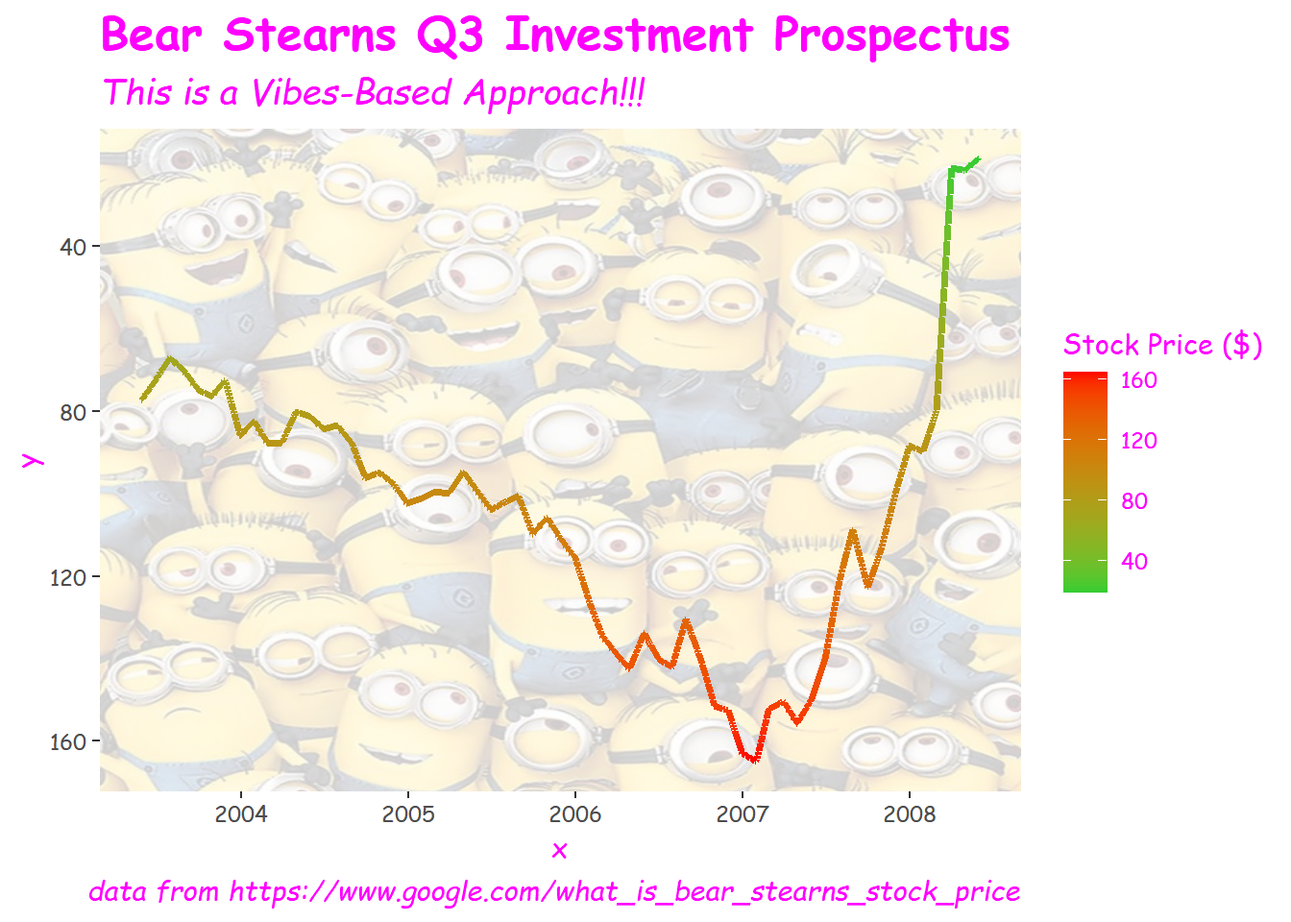
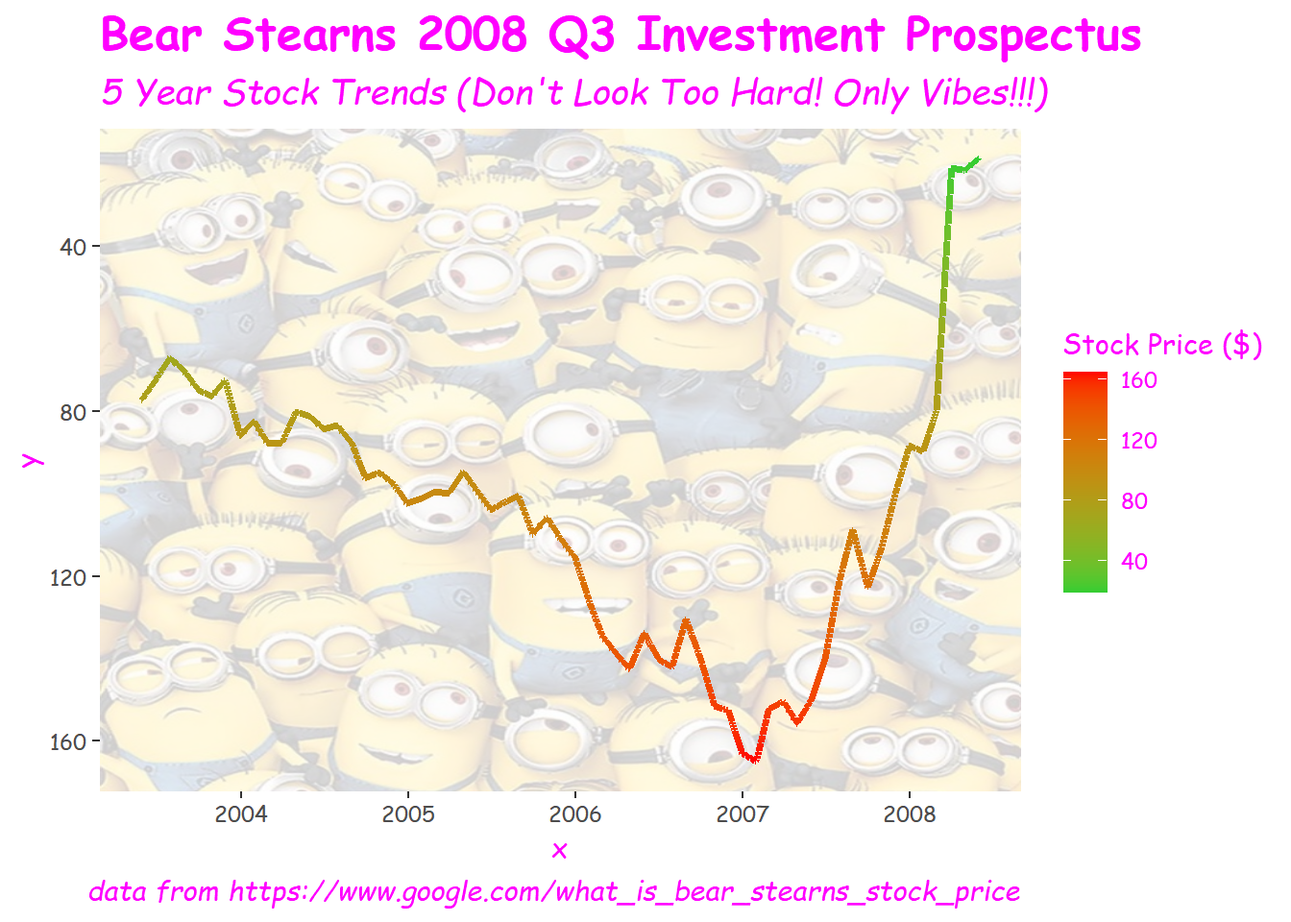
more good plot bad plot uploads

Changed region(s): [[0.0625, 0.0, 0.9062, 0.125]]

diff --git a/GoodPlotBadPlot/Scripts/GoodPlot_BadPlot_Quarto_Doc.html b/GoodPlotBadPlot/Scripts/GoodPlot_BadPlot_Quarto_Doc.html
@@ -172,62 +172,67 @@ pre > code.sourceCode > span > a:first-child::before { text-decoration: underlin
 </figure>
 </div>
 </div>
+<details class="code-fold">
+<summary>Show code</summary>
+<div class="code-copy-outer-scaffold"><div class="sourceCode cell-code" id="cb3"><pre class="sourceCode r code-with-copy"><code class="sourceCode r"><span id="cb3-1"><a href="#cb3-1" aria-hidden="true" tabindex="-1"></a><span class="co">#use here function to save to output folder</span></span>
+<span id="cb3-2"><a href="#cb3-2" aria-hidden="true" tabindex="-1"></a><span class="fu">ggsave</span>(<span class="fu">here</span>(<span class="st">"GoodPlotBadPlot"</span>,<span class="st">"Outputs"</span>,<span class="st">"subprime_share_plot.png"</span>))         </span></code></pre></div><button title="Copy to Clipboard" class="code-copy-button"><i class="bi"></i></button></div>
+</details>
 </div>
 <p>As you can see in the chart above, subprime loans, which made up less than a fifth of all new mortgages in 2001, comprised close to half of new mortgages in 2005. The spike in 2003 is due to the Federal Reserve dropping interest rates to near historic levels, which created a rush of new home buyers and catalyzed the subprime market by making it easier than ever to obtain cheap credit. By 2007, subprime loans had begun to default enough to contract the overall U.S. housing market, despite prime mortgages continuing to be generated at a similar amount.</p>
 <div class="cell" data-label="Market Performance Versus Foreclosures">
 <details class="code-fold">
 <summary>Show code</summary>
-<div class="code-copy-outer-scaffold"><div class="sourceCode cell-code" id="cb3"><pre class="sourceCode r code-with-copy"><code class="sourceCode r"><span id="cb3-1"><a href="#cb3-1" aria-hidden="true" tabindex="-1"></a><span class="co">#pull in datasets</span></span>
-<span id="cb3-2"><a href="#cb3-2" aria-hidden="true" tabindex="-1"></a>SP500_2008 <span class="ot">&lt;-</span> <span class="fu">read.csv</span>(<span class="fu">here</span>(<span class="st">"GoodPlotBadPlot"</span>,<span class="st">"Data"</span>,<span class="st">"SP500_Data_2007_2009_Long.csv"</span>))<span class="sc">|&gt;</span></span>
-<span id="cb3-3"><a href="#cb3-3" aria-hidden="true" tabindex="-1"></a>  <span class="fu">filter</span>(Year<span class="sc">==</span><span class="dv">2008</span>,)<span class="sc">|&gt;</span> <span class="co">#select only 2008</span></span>
-<span id="cb3-4"><a href="#cb3-4" aria-hidden="true" tabindex="-1"></a>  <span class="co">#order months sequentially and make values numeric</span></span>
-<span id="cb3-5"><a href="#cb3-5" aria-hidden="true" tabindex="-1"></a>  <span class="fu">mutate</span>(<span class="at">Month=</span><span class="fu">factor</span>(Month, <span class="at">levels=</span>month.name),</span>
-<span id="cb3-6"><a href="#cb3-6" aria-hidden="true" tabindex="-1"></a>                      <span class="at">Index.Value=</span><span class="fu">as.numeric</span>(Index.Value)) </span>
-<span id="cb3-7"><a href="#cb3-7" aria-hidden="true" tabindex="-1"></a><span class="fu">head</span>(SP500_2008) <span class="co">#S&amp;P500 Dataset</span></span>
-<span id="cb3-8"><a href="#cb3-8" aria-hidden="true" tabindex="-1"></a></span>
-<span id="cb3-9"><a href="#cb3-9" aria-hidden="true" tabindex="-1"></a>Foreclosures_2008 <span class="ot">&lt;-</span> <span class="fu">read.csv</span>(<span class="fu">here</span>(<span class="st">"GoodPlotBadPlot"</span>,<span class="st">"Data"</span>,<span class="st">"2008_Foreclosure_Data.csv"</span>))<span class="sc">|&gt;</span></span>
-<span id="cb3-10"><a href="#cb3-10" aria-hidden="true" tabindex="-1"></a>  <span class="fu">mutate</span>(<span class="at">Month =</span> <span class="fu">factor</span>(Month, <span class="at">levels =</span> month.name)) <span class="co">#order months sequentially</span></span>
-<span id="cb3-11"><a href="#cb3-11" aria-hidden="true" tabindex="-1"></a>         </span>
-<span id="cb3-12"><a href="#cb3-12" aria-hidden="true" tabindex="-1"></a><span class="fu">head</span>(Foreclosures_2008) <span class="co">#Foreclosures dataset</span></span>
-<span id="cb3-13"><a href="#cb3-13" aria-hidden="true" tabindex="-1"></a></span>
-<span id="cb3-14"><a href="#cb3-14" aria-hidden="true" tabindex="-1"></a><span class="co">#ggplot bar chart plus line chart, linked with patchwork</span></span>
-<span id="cb3-15"><a href="#cb3-15" aria-hidden="true" tabindex="-1"></a></span>
-<span id="cb3-16"><a href="#cb3-16" aria-hidden="true" tabindex="-1"></a><span class="co">#bar chart</span></span>
-<span id="cb3-17"><a href="#cb3-17" aria-hidden="true" tabindex="-1"></a>A1 <span class="ot">&lt;-</span> <span class="fu">ggplot</span>(Foreclosures_2008, </span>
-<span id="cb3-18"><a href="#cb3-18" aria-hidden="true" tabindex="-1"></a>       <span class="fu">aes</span>(<span class="at">x=</span>Month,</span>
-<span id="cb3-19"><a href="#cb3-19" aria-hidden="true" tabindex="-1"></a>           <span class="at">y=</span>Number,</span>
-<span id="cb3-20"><a href="#cb3-20" aria-hidden="true" tabindex="-1"></a>           <span class="at">fill=</span>Loan.Type))<span class="sc">+</span></span>
-<span id="cb3-21"><a href="#cb3-21" aria-hidden="true" tabindex="-1"></a>  <span class="fu">geom_col</span>(<span class="at">position=</span><span class="st">"stack"</span>,<span class="at">width=</span><span class="fl">0.7</span>,)<span class="sc">+</span> <span class="co">#stack again seems like best visual</span></span>
-<span id="cb3-22"><a href="#cb3-22" aria-hidden="true" tabindex="-1"></a>  <span class="fu">scale_fill_manual</span>(<span class="at">values=</span><span class="fu">c</span>(<span class="st">"Prime"</span><span class="ot">=</span><span class="st">"navy"</span>,</span>
-<span id="cb3-23"><a href="#cb3-23" aria-hidden="true" tabindex="-1"></a>                             <span class="st">"Subprime"</span><span class="ot">=</span><span class="st">"red"</span>))<span class="sc">+</span> <span class="co">#red still equals bad</span></span>
-<span id="cb3-24"><a href="#cb3-24" aria-hidden="true" tabindex="-1"></a>  <span class="fu">theme</span>(<span class="at">axis.title=</span><span class="fu">element_text</span>(<span class="at">size=</span><span class="dv">12</span>),</span>
-<span id="cb3-25"><a href="#cb3-25" aria-hidden="true" tabindex="-1"></a>        <span class="at">axis.title.x=</span><span class="fu">element_blank</span>(), <span class="co">#block this element from showing</span></span>
-<span id="cb3-26"><a href="#cb3-26" aria-hidden="true" tabindex="-1"></a>        <span class="at">axis.text.x =</span> <span class="fu">element_text</span>(<span class="at">angle =</span> <span class="dv">45</span>, <span class="at">hjust =</span> <span class="dv">1</span>))<span class="sc">+</span></span>
-<span id="cb3-27"><a href="#cb3-27" aria-hidden="true" tabindex="-1"></a>  <span class="fu">labs</span>(<span class="at">y=</span><span class="st">"Number of Foreclosures"</span>,</span>
-<span id="cb3-28"><a href="#cb3-28" aria-hidden="true" tabindex="-1"></a>       <span class="at">fill=</span><span class="st">"Loan Type"</span>)</span>
-<span id="cb3-29"><a href="#cb3-29" aria-hidden="true" tabindex="-1"></a></span>
-<span id="cb3-30"><a href="#cb3-30" aria-hidden="true" tabindex="-1"></a><span class="co">#line chart</span></span>
-<span id="cb3-31"><a href="#cb3-31" aria-hidden="true" tabindex="-1"></a>A2 <span class="ot">&lt;-</span> <span class="fu">ggplot</span>(SP500_2008,</span>
-<span id="cb3-32"><a href="#cb3-32" aria-hidden="true" tabindex="-1"></a>        <span class="fu">aes</span>(<span class="at">x=</span>Month,</span>
-<span id="cb3-33"><a href="#cb3-33" aria-hidden="true" tabindex="-1"></a>            <span class="at">y=</span>Index.Value,</span>
-<span id="cb3-34"><a href="#cb3-34" aria-hidden="true" tabindex="-1"></a>            <span class="at">group=</span><span class="dv">1</span>))<span class="sc">+</span></span>
-<span id="cb3-35"><a href="#cb3-35" aria-hidden="true" tabindex="-1"></a>  <span class="fu">geom_line</span>(<span class="at">color=</span><span class="st">"orange"</span>,<span class="at">linewidth=</span><span class="fl">1.2</span>)<span class="sc">+</span></span>
-<span id="cb3-36"><a href="#cb3-36" aria-hidden="true" tabindex="-1"></a>  <span class="co">#customize y-scale</span></span>
-<span id="cb3-37"><a href="#cb3-37" aria-hidden="true" tabindex="-1"></a>  <span class="fu">scale_y_continuous</span>(<span class="at">limits =</span> <span class="fu">c</span>(<span class="dv">750</span>,<span class="dv">1500</span>),<span class="at">breaks=</span>(<span class="fu">seq</span>(<span class="dv">750</span>,<span class="dv">1500</span>,<span class="at">by=</span><span class="dv">250</span>)))<span class="sc">+</span></span>
-<span id="cb3-38"><a href="#cb3-38" aria-hidden="true" tabindex="-1"></a>  <span class="fu">theme</span>(<span class="at">axis.text.x =</span> <span class="fu">element_text</span>(<span class="at">angle =</span> <span class="dv">45</span>, <span class="at">hjust =</span> <span class="dv">1</span>))<span class="sc">+</span></span>
-<span id="cb3-39"><a href="#cb3-39" aria-hidden="true" tabindex="-1"></a>  <span class="fu">labs</span>(<span class="at">y=</span><span class="st">"S&amp;P500 Index"</span>)<span class="sc">+</span></span>
-<span id="cb3-40"><a href="#cb3-40" aria-hidden="true" tabindex="-1"></a>  <span class="fu">theme</span>(<span class="at">axis.title=</span><span class="fu">element_text</span>(<span class="at">size=</span><span class="dv">12</span>))</span>
-<span id="cb3-41"><a href="#cb3-41" aria-hidden="true" tabindex="-1"></a>  </span>
-<span id="cb3-42"><a href="#cb3-42" aria-hidden="true" tabindex="-1"></a>Patchwork_Plot <span class="ot">&lt;-</span> A1 <span class="sc">/</span> A2 <span class="co">#stitch the plots together</span></span>
-<span id="cb3-43"><a href="#cb3-43" aria-hidden="true" tabindex="-1"></a></span>
-<span id="cb3-44"><a href="#cb3-44" aria-hidden="true" tabindex="-1"></a><span class="co">#adding labels</span></span>
-<span id="cb3-45"><a href="#cb3-45" aria-hidden="true" tabindex="-1"></a>Patchwork_Plot<span class="sc">+</span></span>
-<span id="cb3-46"><a href="#cb3-46" aria-hidden="true" tabindex="-1"></a>  <span class="fu">plot_annotation</span>(<span class="at">title=</span><span class="st">"The Subprime Bubble Onset Delay"</span>,</span>
-<span id="cb3-47"><a href="#cb3-47" aria-hidden="true" tabindex="-1"></a>                  <span class="at">subtitle=</span><span class="st">"Foreclosures Versus S&amp;P500 Index Performance, 2008"</span>,</span>
-<span id="cb3-48"><a href="#cb3-48" aria-hidden="true" tabindex="-1"></a>                  <span class="at">caption=</span><span class="st">"Data from CNBC and FHFA Foreclosure Prevention Report, 2008"</span>,</span>
-<span id="cb3-49"><a href="#cb3-49" aria-hidden="true" tabindex="-1"></a>                  <span class="at">theme=</span><span class="fu">theme</span>(<span class="at">plot.title =</span> <span class="fu">element_text</span>(<span class="at">size =</span> <span class="dv">16</span>,<span class="at">face =</span> <span class="st">"bold"</span>),</span>
-<span id="cb3-50"><a href="#cb3-50" aria-hidden="true" tabindex="-1"></a>            <span class="at">plot.subtitle =</span> <span class="fu">element_text</span>(<span class="at">size =</span> <span class="dv">12</span>),</span>
-<span id="cb3-51"><a href="#cb3-51" aria-hidden="true" tabindex="-1"></a>            <span class="at">plot.caption =</span> <span class="fu">element_text</span>(<span class="at">size =</span> <span class="dv">8</span>,<span class="at">face =</span> <span class="st">"italic"</span>)))</span></code></pre></div><button title="Copy to Clipboard" class="code-copy-button"><i class="bi"></i></button></div>
+<div class="code-copy-outer-scaffold"><div class="sourceCode cell-code" id="cb4"><pre class="sourceCode r code-with-copy"><code class="sourceCode r"><span id="cb4-1"><a href="#cb4-1" aria-hidden="true" tabindex="-1"></a><span class="co">#pull in datasets</span></span>
+<span id="cb4-2"><a href="#cb4-2" aria-hidden="true" tabindex="-1"></a>SP500_2008 <span class="ot">&lt;-</span> <span class="fu">read.csv</span>(<span class="fu">here</span>(<span class="st">"GoodPlotBadPlot"</span>,<span class="st">"Data"</span>,<span class="st">"SP500_Data_2007_2009_Long.csv"</span>))<span class="sc">|&gt;</span></span>
+<span id="cb4-3"><a href="#cb4-3" aria-hidden="true" tabindex="-1"></a>  <span class="fu">filter</span>(Year<span class="sc">==</span><span class="dv">2008</span>,)<span class="sc">|&gt;</span> <span class="co">#select only 2008</span></span>
+<span id="cb4-4"><a href="#cb4-4" aria-hidden="true" tabindex="-1"></a>  <span class="co">#order months sequentially and make values numeric</span></span>
+<span id="cb4-5"><a href="#cb4-5" aria-hidden="true" tabindex="-1"></a>  <span class="fu">mutate</span>(<span class="at">Month=</span><span class="fu">factor</span>(Month, <span class="at">levels=</span>month.name),</span>
+<span id="cb4-6"><a href="#cb4-6" aria-hidden="true" tabindex="-1"></a>                      <span class="at">Index.Value=</span><span class="fu">as.numeric</span>(Index.Value)) </span>
+<span id="cb4-7"><a href="#cb4-7" aria-hidden="true" tabindex="-1"></a><span class="fu">head</span>(SP500_2008) <span class="co">#S&amp;P500 Dataset</span></span>
+<span id="cb4-8"><a href="#cb4-8" aria-hidden="true" tabindex="-1"></a></span>
+<span id="cb4-9"><a href="#cb4-9" aria-hidden="true" tabindex="-1"></a>Foreclosures_2008 <span class="ot">&lt;-</span> <span class="fu">read.csv</span>(<span class="fu">here</span>(<span class="st">"GoodPlotBadPlot"</span>,<span class="st">"Data"</span>,<span class="st">"2008_Foreclosure_Data.csv"</span>))<span class="sc">|&gt;</span></span>
+<span id="cb4-10"><a href="#cb4-10" aria-hidden="true" tabindex="-1"></a>  <span class="fu">mutate</span>(<span class="at">Month =</span> <span class="fu">factor</span>(Month, <span class="at">levels =</span> month.name)) <span class="co">#order months sequentially</span></span>
+<span id="cb4-11"><a href="#cb4-11" aria-hidden="true" tabindex="-1"></a>         </span>
+<span id="cb4-12"><a href="#cb4-12" aria-hidden="true" tabindex="-1"></a><span class="fu">head</span>(Foreclosures_2008) <span class="co">#Foreclosures dataset</span></span>
+<span id="cb4-13"><a href="#cb4-13" aria-hidden="true" tabindex="-1"></a></span>
+<span id="cb4-14"><a href="#cb4-14" aria-hidden="true" tabindex="-1"></a><span class="co">#ggplot bar chart plus line chart, linked with patchwork</span></span>
+<span id="cb4-15"><a href="#cb4-15" aria-hidden="true" tabindex="-1"></a></span>
+<span id="cb4-16"><a href="#cb4-16" aria-hidden="true" tabindex="-1"></a><span class="co">#bar chart</span></span>
+<span id="cb4-17"><a href="#cb4-17" aria-hidden="true" tabindex="-1"></a>A1 <span class="ot">&lt;-</span> <span class="fu">ggplot</span>(Foreclosures_2008, </span>
+<span id="cb4-18"><a href="#cb4-18" aria-hidden="true" tabindex="-1"></a>       <span class="fu">aes</span>(<span class="at">x=</span>Month,</span>
+<span id="cb4-19"><a href="#cb4-19" aria-hidden="true" tabindex="-1"></a>           <span class="at">y=</span>Number,</span>
+<span id="cb4-20"><a href="#cb4-20" aria-hidden="true" tabindex="-1"></a>           <span class="at">fill=</span>Loan.Type))<span class="sc">+</span></span>
+<span id="cb4-21"><a href="#cb4-21" aria-hidden="true" tabindex="-1"></a>  <span class="fu">geom_col</span>(<span class="at">position=</span><span class="st">"stack"</span>,<span class="at">width=</span><span class="fl">0.7</span>,)<span class="sc">+</span> <span class="co">#stack again seems like best visual</span></span>
+<span id="cb4-22"><a href="#cb4-22" aria-hidden="true" tabindex="-1"></a>  <span class="fu">scale_fill_manual</span>(<span class="at">values=</span><span class="fu">c</span>(<span class="st">"Prime"</span><span class="ot">=</span><span class="st">"navy"</span>,</span>
+<span id="cb4-23"><a href="#cb4-23" aria-hidden="true" tabindex="-1"></a>                             <span class="st">"Subprime"</span><span class="ot">=</span><span class="st">"red"</span>))<span class="sc">+</span> <span class="co">#red still equals bad</span></span>
+<span id="cb4-24"><a href="#cb4-24" aria-hidden="true" tabindex="-1"></a>  <span class="fu">theme</span>(<span class="at">axis.title=</span><span class="fu">element_text</span>(<span class="at">size=</span><span class="dv">12</span>),</span>
+<span id="cb4-25"><a href="#cb4-25" aria-hidden="true" tabindex="-1"></a>        <span class="at">axis.title.x=</span><span class="fu">element_blank</span>(), <span class="co">#block this element from showing</span></span>
+<span id="cb4-26"><a href="#cb4-26" aria-hidden="true" tabindex="-1"></a>        <span class="at">axis.text.x =</span> <span class="fu">element_text</span>(<span class="at">angle =</span> <span class="dv">45</span>, <span class="at">hjust =</span> <span class="dv">1</span>))<span class="sc">+</span></span>
+<span id="cb4-27"><a href="#cb4-27" aria-hidden="true" tabindex="-1"></a>  <span class="fu">labs</span>(<span class="at">y=</span><span class="st">"Number of Foreclosures"</span>,</span>
+<span id="cb4-28"><a href="#cb4-28" aria-hidden="true" tabindex="-1"></a>       <span class="at">fill=</span><span class="st">"Loan Type"</span>)</span>
+<span id="cb4-29"><a href="#cb4-29" aria-hidden="true" tabindex="-1"></a></span>
+<span id="cb4-30"><a href="#cb4-30" aria-hidden="true" tabindex="-1"></a><span class="co">#line chart</span></span>
+<span id="cb4-31"><a href="#cb4-31" aria-hidden="true" tabindex="-1"></a>A2 <span class="ot">&lt;-</span> <span class="fu">ggplot</span>(SP500_2008,</span>
+<span id="cb4-32"><a href="#cb4-32" aria-hidden="true" tabindex="-1"></a>        <span class="fu">aes</span>(<span class="at">x=</span>Month,</span>
+<span id="cb4-33"><a href="#cb4-33" aria-hidden="true" tabindex="-1"></a>            <span class="at">y=</span>Index.Value,</span>
+<span id="cb4-34"><a href="#cb4-34" aria-hidden="true" tabindex="-1"></a>            <span class="at">group=</span><span class="dv">1</span>))<span class="sc">+</span></span>
+<span id="cb4-35"><a href="#cb4-35" aria-hidden="true" tabindex="-1"></a>  <span class="fu">geom_line</span>(<span class="at">color=</span><span class="st">"orange"</span>,<span class="at">linewidth=</span><span class="fl">1.2</span>)<span class="sc">+</span></span>
+<span id="cb4-36"><a href="#cb4-36" aria-hidden="true" tabindex="-1"></a>  <span class="co">#customize y-scale</span></span>
+<span id="cb4-37"><a href="#cb4-37" aria-hidden="true" tabindex="-1"></a>  <span class="fu">scale_y_continuous</span>(<span class="at">limits =</span> <span class="fu">c</span>(<span class="dv">750</span>,<span class="dv">1500</span>),<span class="at">breaks=</span>(<span class="fu">seq</span>(<span class="dv">750</span>,<span class="dv">1500</span>,<span class="at">by=</span><span class="dv">250</span>)))<span class="sc">+</span></span>
+<span id="cb4-38"><a href="#cb4-38" aria-hidden="true" tabindex="-1"></a>  <span class="fu">theme</span>(<span class="at">axis.text.x =</span> <span class="fu">element_text</span>(<span class="at">angle =</span> <span class="dv">45</span>, <span class="at">hjust =</span> <span class="dv">1</span>))<span class="sc">+</span></span>
+<span id="cb4-39"><a href="#cb4-39" aria-hidden="true" tabindex="-1"></a>  <span class="fu">labs</span>(<span class="at">y=</span><span class="st">"S&amp;P500 Index"</span>)<span class="sc">+</span></span>
+<span id="cb4-40"><a href="#cb4-40" aria-hidden="true" tabindex="-1"></a>  <span class="fu">theme</span>(<span class="at">axis.title=</span><span class="fu">element_text</span>(<span class="at">size=</span><span class="dv">12</span>))</span>
+<span id="cb4-41"><a href="#cb4-41" aria-hidden="true" tabindex="-1"></a>  </span>
+<span id="cb4-42"><a href="#cb4-42" aria-hidden="true" tabindex="-1"></a>Patchwork_Plot <span class="ot">&lt;-</span> A1 <span class="sc">/</span> A2 <span class="co">#stitch the plots together</span></span>
+<span id="cb4-43"><a href="#cb4-43" aria-hidden="true" tabindex="-1"></a></span>
+<span id="cb4-44"><a href="#cb4-44" aria-hidden="true" tabindex="-1"></a><span class="co">#adding labels</span></span>
+<span id="cb4-45"><a href="#cb4-45" aria-hidden="true" tabindex="-1"></a>Patchwork_Plot<span class="sc">+</span></span>
+<span id="cb4-46"><a href="#cb4-46" aria-hidden="true" tabindex="-1"></a>  <span class="fu">plot_annotation</span>(<span class="at">title=</span><span class="st">"The Subprime Bubble Onset Delay"</span>,</span>
+<span id="cb4-47"><a href="#cb4-47" aria-hidden="true" tabindex="-1"></a>                  <span class="at">subtitle=</span><span class="st">"Foreclosures Versus S&amp;P500 Index Performance, 2008"</span>,</span>
+<span id="cb4-48"><a href="#cb4-48" aria-hidden="true" tabindex="-1"></a>                  <span class="at">caption=</span><span class="st">"Data from CNBC and FHFA Foreclosure Prevention Report, 2008"</span>,</span>
+<span id="cb4-49"><a href="#cb4-49" aria-hidden="true" tabindex="-1"></a>                  <span class="at">theme=</span><span class="fu">theme</span>(<span class="at">plot.title =</span> <span class="fu">element_text</span>(<span class="at">size =</span> <span class="dv">16</span>,<span class="at">face =</span> <span class="st">"bold"</span>),</span>
+<span id="cb4-50"><a href="#cb4-50" aria-hidden="true" tabindex="-1"></a>            <span class="at">plot.subtitle =</span> <span class="fu">element_text</span>(<span class="at">size =</span> <span class="dv">12</span>),</span>
+<span id="cb4-51"><a href="#cb4-51" aria-hidden="true" tabindex="-1"></a>            <span class="at">plot.caption =</span> <span class="fu">element_text</span>(<span class="at">size =</span> <span class="dv">8</span>,<span class="at">face =</span> <span class="st">"italic"</span>)))</span></code></pre></div><button title="Copy to Clipboard" class="code-copy-button"><i class="bi"></i></button></div>
 </details>
 <div class="cell-output-display">
 <div class="quarto-figure quarto-figure-center">
@@ -237,6 +242,11 @@ pre > code.sourceCode > span > a:first-child::before { text-decoration: underlin
 </figure>
 </div>
 </div>
+<details class="code-fold">
+<summary>Show code</summary>
+<div class="code-copy-outer-scaffold"><div class="sourceCode cell-code" id="cb5"><pre class="sourceCode r code-with-copy"><code class="sourceCode r"><span id="cb5-1"><a href="#cb5-1" aria-hidden="true" tabindex="-1"></a><span class="co">#use here function to save to output folder</span></span>
+<span id="cb5-2"><a href="#cb5-2" aria-hidden="true" tabindex="-1"></a><span class="fu">ggsave</span>(<span class="fu">here</span>(<span class="st">"GoodPlotBadPlot"</span>,<span class="st">"Outputs"</span>,<span class="st">"2008_Subprime_v_SP500.jpg"</span>))</span></code></pre></div><button title="Copy to Clipboard" class="code-copy-button"><i class="bi"></i></button></div>
+</details>
 </div>
 <p>This chart shows how a marked rise in foreclosures during the early part of 2008 signaled the impending housing bubble, as greater numbers of homeowners could no longer afford their mortgage payments. Tellingly, a greater and greater share of prime mortgages defaulted and entered foreclosure over the year. However, it took until October 2008 for the stock market at large to recognize the crisis and for investor confidence to completely crater.</p>
 <p>There was, however, one firm that served as the canary in the coal mine…</p>
@@ -246,46 +256,46 @@ pre > code.sourceCode > span > a:first-child::before { text-decoration: underlin
 <div class="cell" data-label="Bear Stearns Q3 Investing Prospectus (The Bad Plot!)">
 <details class="code-fold">
 <summary>Show code</summary>
-<div class="code-copy-outer-scaffold"><div class="sourceCode cell-code" id="cb4"><pre class="sourceCode r code-with-copy"><code class="sourceCode r"><span id="cb4-1"><a href="#cb4-1" aria-hidden="true" tabindex="-1"></a><span class="co">#bring in the data</span></span>
-<span id="cb4-2"><a href="#cb4-2" aria-hidden="true" tabindex="-1"></a>Bear_Stearns_Stock <span class="ot">&lt;-</span> <span class="fu">read.csv</span>(<span class="fu">here</span>(<span class="st">"GoodPlotBadPlot"</span>,<span class="st">"Data"</span>,<span class="st">"Bear_Stearns_Stock.csv"</span>))<span class="sc">|&gt;</span></span>
-<span id="cb4-3"><a href="#cb4-3" aria-hidden="true" tabindex="-1"></a>  <span class="fu">mutate</span>(<span class="at">Date=</span><span class="fu">ymd</span>(Date))<span class="sc">|&gt;</span></span>
-<span id="cb4-4"><a href="#cb4-4" aria-hidden="true" tabindex="-1"></a>  <span class="fu">arrange</span>(Date)<span class="co">#use lubridate to convert to dates</span></span>
-<span id="cb4-5"><a href="#cb4-5" aria-hidden="true" tabindex="-1"></a></span>
-<span id="cb4-6"><a href="#cb4-6" aria-hidden="true" tabindex="-1"></a><span class="fu">head</span>(Bear_Stearns_Stock)</span>
-<span id="cb4-7"><a href="#cb4-7" aria-hidden="true" tabindex="-1"></a></span>
-<span id="cb4-8"><a href="#cb4-8" aria-hidden="true" tabindex="-1"></a><span class="co">#prep my font</span></span>
-<span id="cb4-9"><a href="#cb4-9" aria-hidden="true" tabindex="-1"></a><span class="fu">windowsFonts</span>(<span class="st">`</span><span class="at">Comic Sans MS</span><span class="st">`</span> <span class="ot">=</span> <span class="fu">windowsFont</span>(<span class="st">"Comic Sans MS"</span>)) <span class="co">#aka the BEST font for being taken seriously professionally</span></span>
-<span id="cb4-10"><a href="#cb4-10" aria-hidden="true" tabindex="-1"></a></span>
-<span id="cb4-11"><a href="#cb4-11" aria-hidden="true" tabindex="-1"></a><span class="co">#make an unspeakable plot</span></span>
-<span id="cb4-12"><a href="#cb4-12" aria-hidden="true" tabindex="-1"></a>Bear_Plot <span class="ot">&lt;-</span> <span class="fu">ggplot</span>(Bear_Stearns_Stock,</span>
-<span id="cb4-13"><a href="#cb4-13" aria-hidden="true" tabindex="-1"></a>       <span class="fu">aes</span>(<span class="at">x=</span>Date,</span>
-<span id="cb4-14"><a href="#cb4-14" aria-hidden="true" tabindex="-1"></a>           <span class="at">y=</span>End_Of_Day_Stock_Price,</span>
-<span id="cb4-15"><a href="#cb4-15" aria-hidden="true" tabindex="-1"></a>           <span class="at">group=</span><span class="dv">1</span>,</span>
-<span id="cb4-16"><a href="#cb4-16" aria-hidden="true" tabindex="-1"></a>           <span class="at">color=</span>End_Of_Day_Stock_Price))<span class="sc">+</span></span>
-<span id="cb4-17"><a href="#cb4-17" aria-hidden="true" tabindex="-1"></a>  <span class="co">#geom link2 from ggforce package to create line gradient</span></span>
-<span id="cb4-18"><a href="#cb4-18" aria-hidden="true" tabindex="-1"></a>  <span class="fu">geom_link2</span>(<span class="at">linewidth=</span><span class="fl">1.4</span>)<span class="sc">+</span></span>
-<span id="cb4-19"><a href="#cb4-19" aria-hidden="true" tabindex="-1"></a>  <span class="co">#your losses are now gains!!!</span></span>
-<span id="cb4-20"><a href="#cb4-20" aria-hidden="true" tabindex="-1"></a>  <span class="fu">scale_y_reverse</span>()<span class="sc">+</span></span>
-<span id="cb4-21"><a href="#cb4-21" aria-hidden="true" tabindex="-1"></a>  <span class="co">#red is good and green is bad! Do not think critically, peons, simply INVEST!</span></span>
-<span id="cb4-22"><a href="#cb4-22" aria-hidden="true" tabindex="-1"></a>  <span class="fu">scale_color_gradient</span>(</span>
-<span id="cb4-23"><a href="#cb4-23" aria-hidden="true" tabindex="-1"></a>    <span class="at">name=</span><span class="st">"Stock Price ($)"</span>,</span>
-<span id="cb4-24"><a href="#cb4-24" aria-hidden="true" tabindex="-1"></a>    <span class="at">low=</span><span class="st">"limegreen"</span>,</span>
-<span id="cb4-25"><a href="#cb4-25" aria-hidden="true" tabindex="-1"></a>    <span class="at">high=</span><span class="st">"red"</span>)<span class="sc">+</span></span>
-<span id="cb4-26"><a href="#cb4-26" aria-hidden="true" tabindex="-1"></a>  <span class="fu">labs</span>(<span class="at">title =</span> <span class="st">"Bear Stearns Q3 Investment Prospectus"</span>,</span>
-<span id="cb4-27"><a href="#cb4-27" aria-hidden="true" tabindex="-1"></a>       <span class="at">subtitle =</span> <span class="st">"This is a Vibes-Based Approach!!!"</span>,</span>
-<span id="cb4-28"><a href="#cb4-28" aria-hidden="true" tabindex="-1"></a>       <span class="at">caption =</span> <span class="st">"data from https://www.google.com/what_is_bear_stearns_stock_price"</span>)<span class="sc">+</span></span>
-<span id="cb4-29"><a href="#cb4-29" aria-hidden="true" tabindex="-1"></a>  <span class="fu">theme</span>(<span class="at">panel.background =</span> <span class="fu">element_rect</span>(<span class="at">fill=</span><span class="st">"transparent"</span>,<span class="at">color=</span><span class="cn">NA</span>),</span>
-<span id="cb4-30"><a href="#cb4-30" aria-hidden="true" tabindex="-1"></a>        <span class="at">plot.background =</span> <span class="fu">element_rect</span>(<span class="at">fill=</span><span class="st">"transparent"</span>,<span class="at">color=</span><span class="cn">NA</span>),</span>
-<span id="cb4-31"><a href="#cb4-31" aria-hidden="true" tabindex="-1"></a>        <span class="at">legend.background =</span> <span class="fu">element_rect</span>(<span class="at">fill=</span><span class="st">"transparent"</span>),</span>
-<span id="cb4-32"><a href="#cb4-32" aria-hidden="true" tabindex="-1"></a>        <span class="at">text =</span> <span class="fu">element_text</span>(<span class="at">family=</span><span class="st">"Comic Sans MS"</span>,<span class="at">color=</span><span class="st">"magenta"</span>),</span>
-<span id="cb4-33"><a href="#cb4-33" aria-hidden="true" tabindex="-1"></a>        <span class="at">plot.title =</span> <span class="fu">element_text</span>(<span class="at">size =</span> <span class="dv">18</span>,<span class="at">face =</span> <span class="st">"bold"</span>),</span>
-<span id="cb4-34"><a href="#cb4-34" aria-hidden="true" tabindex="-1"></a>        <span class="at">plot.subtitle =</span> <span class="fu">element_text</span>(<span class="at">size =</span> <span class="dv">14</span>,<span class="at">face =</span> <span class="st">"italic"</span>),</span>
-<span id="cb4-35"><a href="#cb4-35" aria-hidden="true" tabindex="-1"></a>        <span class="at">plot.caption =</span> <span class="fu">element_text</span>(<span class="at">size =</span> <span class="dv">11</span>,<span class="at">face =</span> <span class="st">"italic"</span>),</span>
-<span id="cb4-36"><a href="#cb4-36" aria-hidden="true" tabindex="-1"></a>        )</span>
-<span id="cb4-37"><a href="#cb4-37" aria-hidden="true" tabindex="-1"></a><span class="co">#Minions are the pinnacle of professionalism</span></span>
-<span id="cb4-38"><a href="#cb4-38" aria-hidden="true" tabindex="-1"></a>Minions_Plot <span class="ot">&lt;-</span> <span class="fu">ggbackground</span>(Bear_Plot,<span class="st">"Minions.jpg"</span>,<span class="at">alpha=</span><span class="fl">0.2</span>)</span>
-<span id="cb4-39"><a href="#cb4-39" aria-hidden="true" tabindex="-1"></a></span>
-<span id="cb4-40"><a href="#cb4-40" aria-hidden="true" tabindex="-1"></a>Minions_Plot</span></code></pre></div><button title="Copy to Clipboard" class="code-copy-button"><i class="bi"></i></button></div>
+<div class="code-copy-outer-scaffold"><div class="sourceCode cell-code" id="cb6"><pre class="sourceCode r code-with-copy"><code class="sourceCode r"><span id="cb6-1"><a href="#cb6-1" aria-hidden="true" tabindex="-1"></a><span class="co">#bring in the data</span></span>
+<span id="cb6-2"><a href="#cb6-2" aria-hidden="true" tabindex="-1"></a>Bear_Stearns_Stock <span class="ot">&lt;-</span> <span class="fu">read.csv</span>(<span class="fu">here</span>(<span class="st">"GoodPlotBadPlot"</span>,<span class="st">"Data"</span>,<span class="st">"Bear_Stearns_Stock.csv"</span>))<span class="sc">|&gt;</span></span>
+<span id="cb6-3"><a href="#cb6-3" aria-hidden="true" tabindex="-1"></a>  <span class="fu">mutate</span>(<span class="at">Date=</span><span class="fu">ymd</span>(Date))<span class="sc">|&gt;</span></span>
+<span id="cb6-4"><a href="#cb6-4" aria-hidden="true" tabindex="-1"></a>  <span class="fu">arrange</span>(Date)</span>
+<span id="cb6-5"><a href="#cb6-5" aria-hidden="true" tabindex="-1"></a></span>
+<span id="cb6-6"><a href="#cb6-6" aria-hidden="true" tabindex="-1"></a><span class="fu">head</span>(Bear_Stearns_Stock)</span>
+<span id="cb6-7"><a href="#cb6-7" aria-hidden="true" tabindex="-1"></a></span>
+<span id="cb6-8"><a href="#cb6-8" aria-hidden="true" tabindex="-1"></a><span class="co">#prep my font</span></span>
+<span id="cb6-9"><a href="#cb6-9" aria-hidden="true" tabindex="-1"></a><span class="fu">windowsFonts</span>(<span class="st">`</span><span class="at">Comic Sans MS</span><span class="st">`</span> <span class="ot">=</span> <span class="fu">windowsFont</span>(<span class="st">"Comic Sans MS"</span>)) <span class="co">#aka the BEST font for being taken seriously professionally</span></span>
+<span id="cb6-10"><a href="#cb6-10" aria-hidden="true" tabindex="-1"></a></span>
+<span id="cb6-11"><a href="#cb6-11" aria-hidden="true" tabindex="-1"></a><span class="co">#make an unspeakable plot</span></span>
+<span id="cb6-12"><a href="#cb6-12" aria-hidden="true" tabindex="-1"></a>Bear_Plot <span class="ot">&lt;-</span> <span class="fu">ggplot</span>(Bear_Stearns_Stock,</span>
+<span id="cb6-13"><a href="#cb6-13" aria-hidden="true" tabindex="-1"></a>       <span class="fu">aes</span>(<span class="at">x=</span>Date,</span>
+<span id="cb6-14"><a href="#cb6-14" aria-hidden="true" tabindex="-1"></a>           <span class="at">y=</span>End_Of_Day_Stock_Price,</span>
+<span id="cb6-15"><a href="#cb6-15" aria-hidden="true" tabindex="-1"></a>           <span class="at">group=</span><span class="dv">1</span>,</span>
+<span id="cb6-16"><a href="#cb6-16" aria-hidden="true" tabindex="-1"></a>           <span class="at">color=</span>End_Of_Day_Stock_Price))<span class="sc">+</span></span>
+<span id="cb6-17"><a href="#cb6-17" aria-hidden="true" tabindex="-1"></a>  <span class="co">#geom link2 from ggforce package to create line gradient</span></span>
+<span id="cb6-18"><a href="#cb6-18" aria-hidden="true" tabindex="-1"></a>  <span class="fu">geom_link2</span>(<span class="at">linewidth=</span><span class="fl">1.4</span>)<span class="sc">+</span></span>
+<span id="cb6-19"><a href="#cb6-19" aria-hidden="true" tabindex="-1"></a>  <span class="co">#your losses are now gains!!!</span></span>
+<span id="cb6-20"><a href="#cb6-20" aria-hidden="true" tabindex="-1"></a>  <span class="fu">scale_y_reverse</span>()<span class="sc">+</span></span>
+<span id="cb6-21"><a href="#cb6-21" aria-hidden="true" tabindex="-1"></a>  <span class="co">#red is good and green is bad! Do not think critically, peons, simply INVEST!</span></span>
+<span id="cb6-22"><a href="#cb6-22" aria-hidden="true" tabindex="-1"></a>  <span class="fu">scale_color_gradient</span>(</span>
+<span id="cb6-23"><a href="#cb6-23" aria-hidden="true" tabindex="-1"></a>    <span class="at">name=</span><span class="st">"Stock Price ($)"</span>,</span>
+<span id="cb6-24"><a href="#cb6-24" aria-hidden="true" tabindex="-1"></a>    <span class="at">low=</span><span class="st">"limegreen"</span>,</span>
+<span id="cb6-25"><a href="#cb6-25" aria-hidden="true" tabindex="-1"></a>    <span class="at">high=</span><span class="st">"red"</span>)<span class="sc">+</span></span>
+<span id="cb6-26"><a href="#cb6-26" aria-hidden="true" tabindex="-1"></a>  <span class="fu">labs</span>(<span class="at">title =</span> <span class="st">"Bear Stearns 2008 Q3 Investment Prospectus"</span>,</span>
+<span id="cb6-27"><a href="#cb6-27" aria-hidden="true" tabindex="-1"></a>       <span class="at">subtitle =</span> <span class="st">"5 Year Stock Trends (Don't Look Too Hard! Only Vibes!!!)"</span>,</span>
+<span id="cb6-28"><a href="#cb6-28" aria-hidden="true" tabindex="-1"></a>       <span class="at">caption =</span> <span class="st">"data from https://www.google.com/what_is_bear_stearns_stock_price"</span>)<span class="sc">+</span></span>
+<span id="cb6-29"><a href="#cb6-29" aria-hidden="true" tabindex="-1"></a>  <span class="fu">theme</span>(<span class="at">panel.background =</span> <span class="fu">element_rect</span>(<span class="at">fill=</span><span class="st">"transparent"</span>,<span class="at">color=</span><span class="cn">NA</span>),</span>
+<span id="cb6-30"><a href="#cb6-30" aria-hidden="true" tabindex="-1"></a>        <span class="at">plot.background =</span> <span class="fu">element_rect</span>(<span class="at">fill=</span><span class="st">"transparent"</span>,<span class="at">color=</span><span class="cn">NA</span>),</span>
+<span id="cb6-31"><a href="#cb6-31" aria-hidden="true" tabindex="-1"></a>        <span class="at">legend.background =</span> <span class="fu">element_rect</span>(<span class="at">fill=</span><span class="st">"transparent"</span>),</span>
+<span id="cb6-32"><a href="#cb6-32" aria-hidden="true" tabindex="-1"></a>        <span class="at">text =</span> <span class="fu">element_text</span>(<span class="at">family=</span><span class="st">"Comic Sans MS"</span>,<span class="at">color=</span><span class="st">"magenta"</span>),</span>
+<span id="cb6-33"><a href="#cb6-33" aria-hidden="true" tabindex="-1"></a>        <span class="at">plot.title =</span> <span class="fu">element_text</span>(<span class="at">size =</span> <span class="dv">18</span>,<span class="at">face =</span> <span class="st">"bold"</span>),</span>
+<span id="cb6-34"><a href="#cb6-34" aria-hidden="true" tabindex="-1"></a>        <span class="at">plot.subtitle =</span> <span class="fu">element_text</span>(<span class="at">size =</span> <span class="dv">14</span>,<span class="at">face =</span> <span class="st">"italic"</span>),</span>
+<span id="cb6-35"><a href="#cb6-35" aria-hidden="true" tabindex="-1"></a>        <span class="at">plot.caption =</span> <span class="fu">element_text</span>(<span class="at">size =</span> <span class="dv">11</span>,<span class="at">face =</span> <span class="st">"italic"</span>),</span>
+<span id="cb6-36"><a href="#cb6-36" aria-hidden="true" tabindex="-1"></a>        )</span>
+<span id="cb6-37"><a href="#cb6-37" aria-hidden="true" tabindex="-1"></a><span class="co">#Minions are the pinnacle of professionalism</span></span>
+<span id="cb6-38"><a href="#cb6-38" aria-hidden="true" tabindex="-1"></a>Minions_Plot <span class="ot">&lt;-</span> <span class="fu">ggbackground</span>(Bear_Plot,<span class="st">"Minions.jpg"</span>,<span class="at">alpha=</span><span class="fl">0.2</span>)</span>
+<span id="cb6-39"><a href="#cb6-39" aria-hidden="true" tabindex="-1"></a></span>
+<span id="cb6-40"><a href="#cb6-40" aria-hidden="true" tabindex="-1"></a>Minions_Plot</span></code></pre></div><button title="Copy to Clipboard" class="code-copy-button"><i class="bi"></i></button></div>
 </details>
 <div class="cell-output-display">
 <div class="quarto-figure quarto-figure-center">
@@ -295,6 +305,11 @@ pre > code.sourceCode > span > a:first-child::before { text-decoration: underlin
 </figure>
 </div>
 </div>
+<details class="code-fold">
+<summary>Show code</summary>
+<div class="code-copy-outer-scaffold"><div class="sourceCode cell-code" id="cb7"><pre class="sourceCode r code-with-copy"><code class="sourceCode r"><span id="cb7-1"><a href="#cb7-1" aria-hidden="true" tabindex="-1"></a><span class="co">#use here function to save to output folder</span></span>
+<span id="cb7-2"><a href="#cb7-2" aria-hidden="true" tabindex="-1"></a><span class="fu">ggsave</span>(<span class="fu">here</span>(<span class="st">"GoodPlotBadPlot"</span>,<span class="st">"Outputs"</span>,<span class="st">"Minions_Plot.jpg"</span>))</span></code></pre></div><button title="Copy to Clipboard" class="code-copy-button"><i class="bi"></i></button></div>
+</details>
 </div>
 
 </main>
